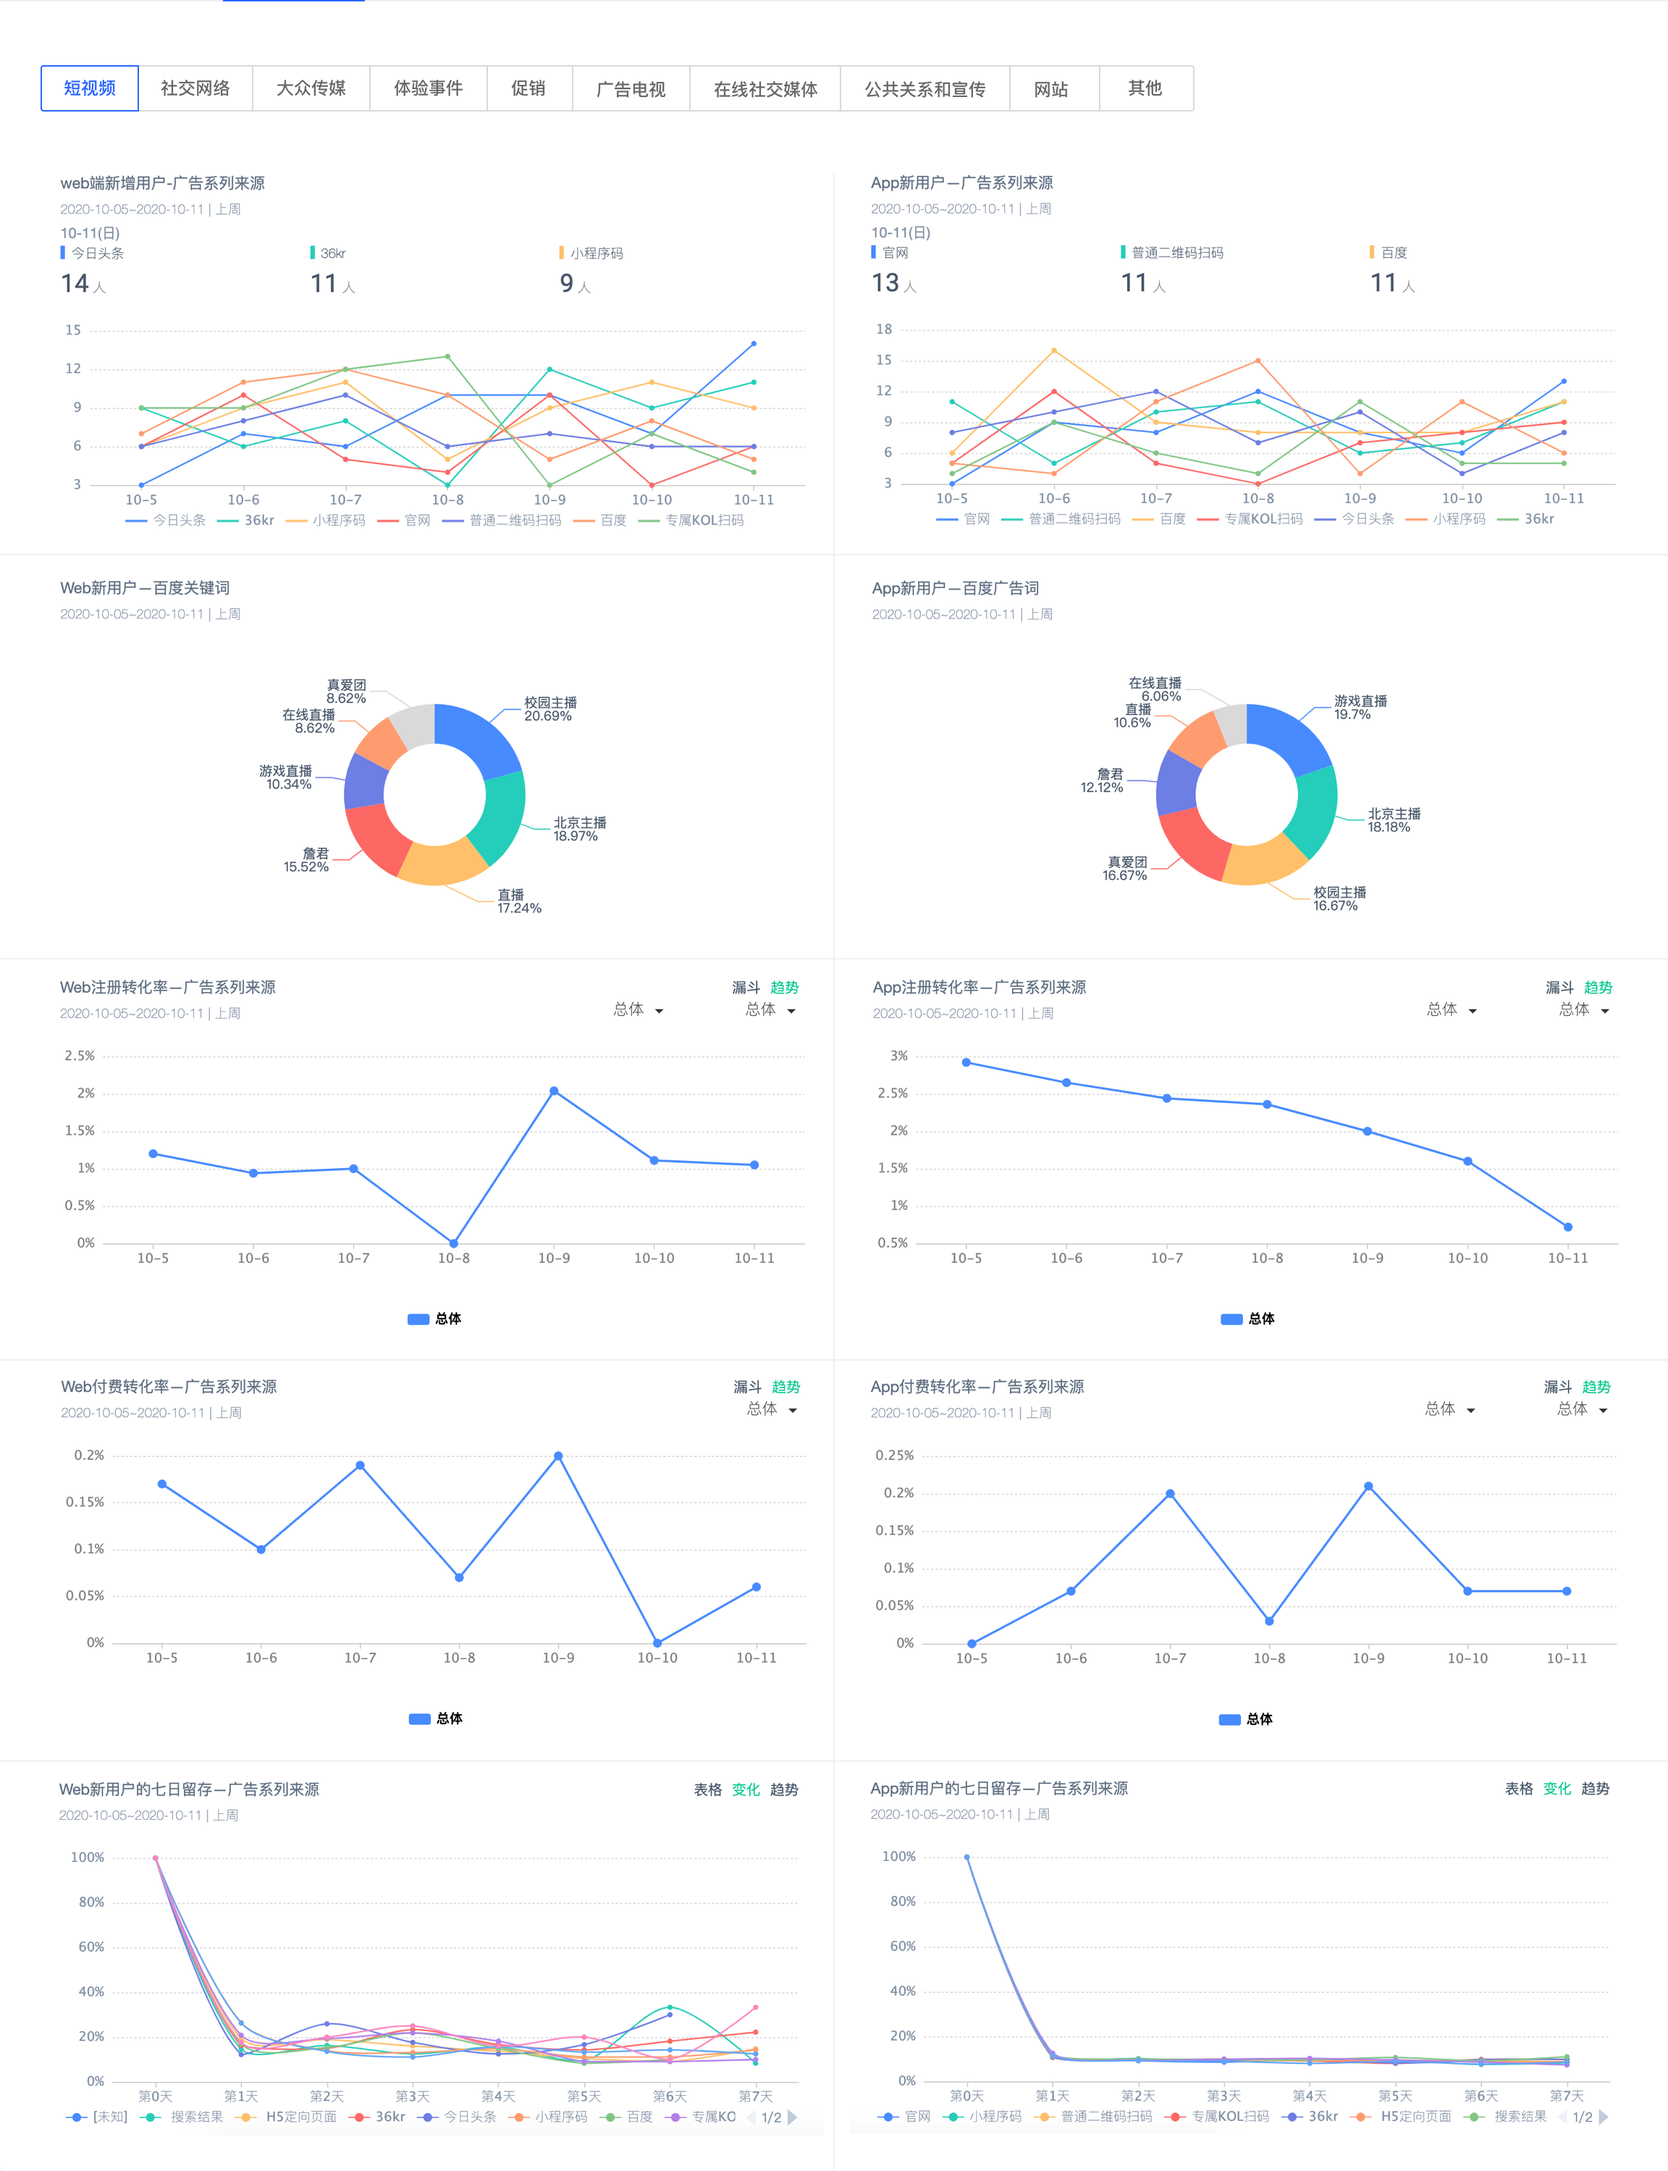
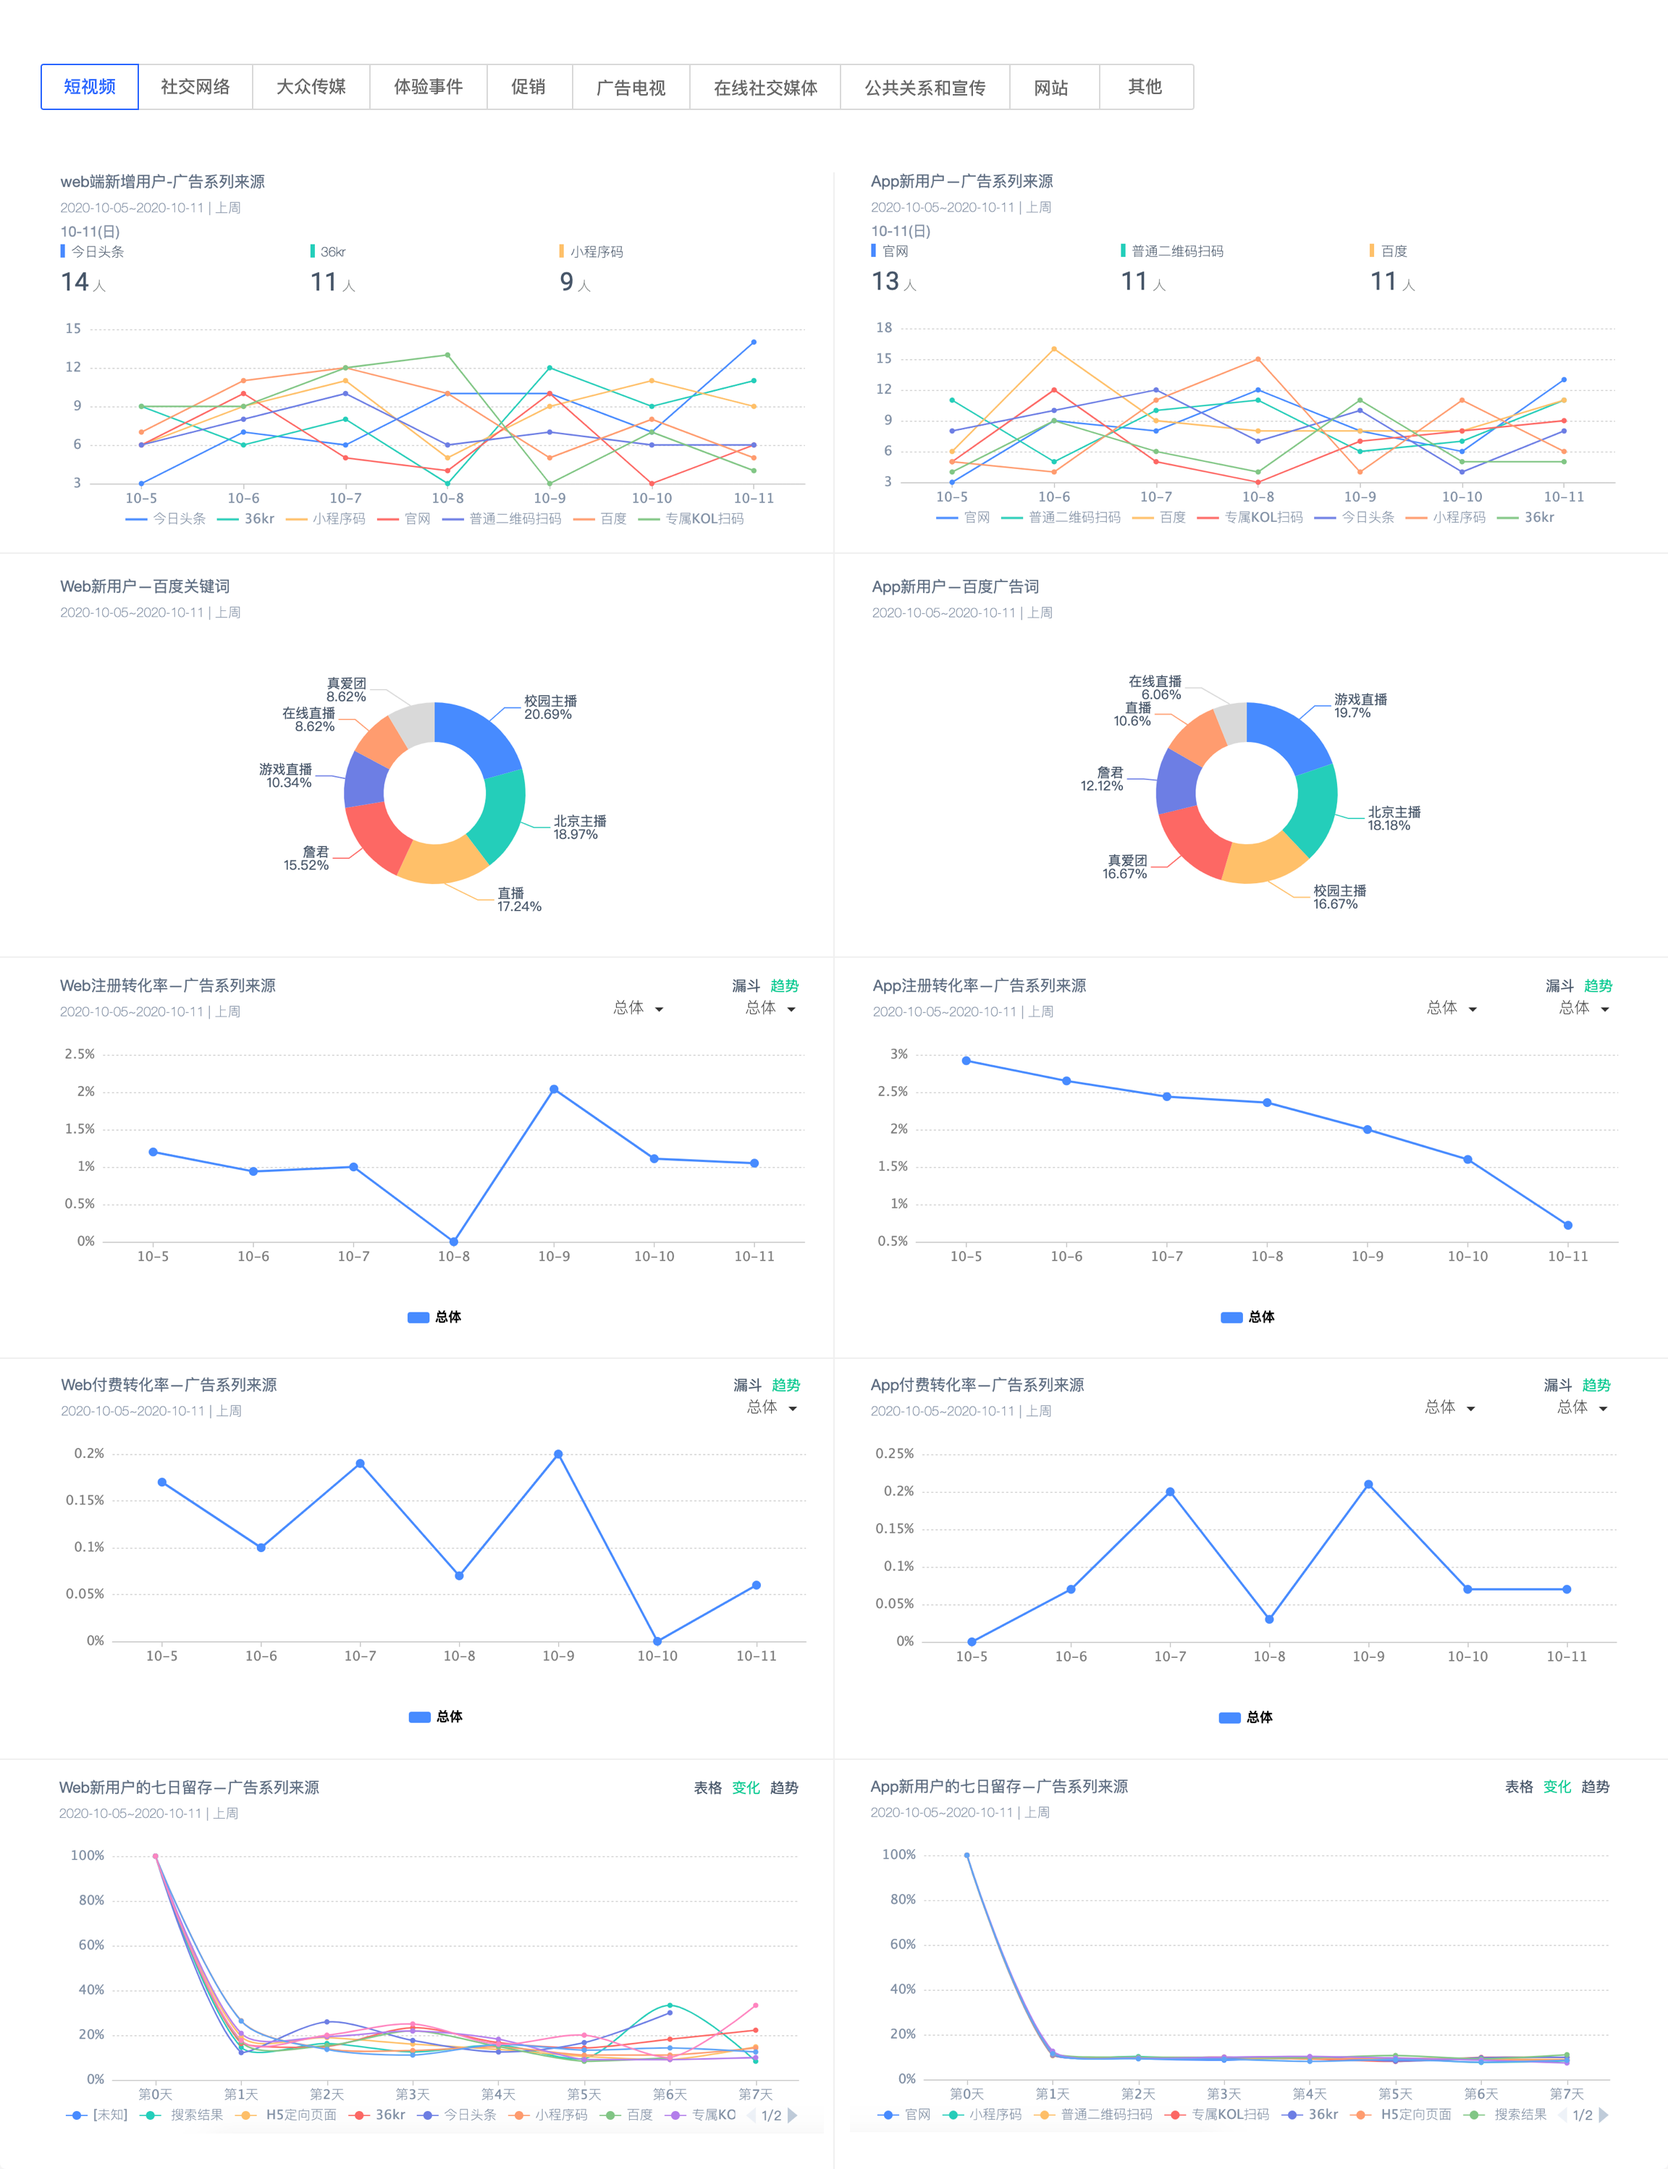
用户画像

diff --git a/src/views/protrait/components/tdjchx.vue b/src/views/protrait/components/tdjchx.vue
@@ -9,10 +9,14 @@
                     </div>
                 </div>
                 <div class="bottom">
-                    <div v-if="tabActive==1">
+                    <div class="tab-content" v-if="tabActive==1">
                         <img src="../../../static/img/protrait/tdjchx2@2x.png" alt="">
+                        <iframe class="iframe iframe1" src="/static/html/lxj/pie1-1.html" frameborder="0" scrolling="no"></iframe>
+                        <iframe class="iframe iframe2" src="/static/html/lxj/pie1-2.html" frameborder="0" scrolling="no"></iframe>
+                        <iframe class="iframe iframe3" src="/static/html/lxj/pie1-3.html" frameborder="0" scrolling="no"></iframe>
+                        <iframe class="iframe iframe4" src="/static/html/lxj/pie1-4.html" frameborder="0" scrolling="no"></iframe>
                     </div>
-                    <div v-else>
+                    <div class="tab-content" v-else>
                         <img src="../../../static/img/protrait/tdjchx3@2x.png" alt="">
                     </div>
                 </div>
@@ -94,9 +98,44 @@
                 }
 
                 .bottom {
-                    >div {
+                    .tab-content {
+                        position: relative;
+
                         >img {
                             width: 100%;
+                        }
+
+                        .iframe {
+                            position: absolute;
+                            width: 330px;
+                            height: 280px;
+                            background: #FFFFFF;
+                        }
+
+                        .iframe1 {
+                            left: 40px;
+                            top: 160px;
+                        }
+
+                        .iframe2 {
+                            width: 300px;
+                            height: 325px;
+                            left: 430px;
+                            top: 150px;
+                        }
+
+                        .iframe3 {
+                            width: 300px;
+                            height: 325px;
+                            right: 60px;
+                            top: 150px;
+                        }
+
+                        .iframe4 {
+                            width: 330px;
+                            height: 325px;
+                            left: 40px;
+                            top: 530px;
                         }
                     }
                 }

diff --git a/src/views/protrait/components/pphx.vue b/src/views/protrait/components/pphx.vue
@@ -14,14 +14,17 @@
                     </div>
                 </div>
                 <div class="bottom">
-                    <div v-if="tabActive==1">
+                    <div class="tab-content" v-if="tabActive==1">
                         <img src="../../../static/img/protrait/pphx2@2x.png" alt="">
                     </div>
-                    <div v-else-if="tabActive==2">
+                    <div class="tab-content" v-else-if="tabActive==2">
                         <img src="../../../static/img/protrait/pphx3@2x.png" alt="">
+                        <iframe class="iframe iframe1" src="/static/html/fj/zhu.html" frameborder="0" scrolling="no"></iframe>
+                        <iframe class="iframe iframe2" src="/static/html/zjj/ppqdkb.html" frameborder="0" scrolling="no"></iframe>
                     </div>
-                    <div v-else>
+                    <div class="tab-content" v-else>
                         <img src="../../../static/img/protrait/pphx4@2x.png" alt="">
+                        <iframe class="iframe iframe3" src="/static/html/lxj/bar1.html" frameborder="0" scrolling="no"></iframe>
                     </div>
                 </div>
             </div>
@@ -147,9 +150,32 @@
                 }
 
                 .bottom {
-                    >div {
+                    .tab-content {
+                        position: relative;
                         >img {
                             width: 100%;
+                        }
+
+                        .iframe {
+                            position: absolute;
+                            width: 48%;
+                            height: 280px;
+                            background: #FFFFFF;
+                        }
+
+                        .iframe1 {
+                            left: 20px;
+                            top: 70px;
+                        }
+
+                        .iframe2 {
+                            right: 10px;
+                            top: 50px;
+                        }
+
+                        .iframe3 {
+                            left: 10px;
+                            top: 45px;
                         }
                     }
                 }

diff --git a/public/static/html/lxj/pie1-4.html b/public/static/html/lxj/pie1-4.html
@@ -95,7 +95,7 @@
 						type: 'scroll',
 						icon: 'circle',
 						orient: 'vertical',
-						right: 20,
+						right: 10,
 						top: 'center',
 						bottom: 20,
 						data: data.map(it => it.label),
@@ -105,7 +105,7 @@
 					},
 					series: [{
 						type: 'pie',
-						center: ['50%', '50%'],
+						center: ['35%', '50%'],
 						radius: ['35%', '50%'],
 						clockwise: true,
 						avoidLabelOverlap: true,

diff --git a/public/static/html/lxj/pie1-3.html b/public/static/html/lxj/pie1-3.html
@@ -69,9 +69,10 @@
 					backgroundColor:'rgba(255, 255, 255, 0)',
 					color: colorList,
 					legend: {
-						orient: 'vertical',
-						top: 'center',
-						right: '2%',
+						// orient: 'vertical',
+						// top: 'center',
+						bottom: 20,
+						// bottom: '2%',
 						data: data.map(it => it.label),
 					},
 					tooltip: {

diff --git a/src/views/protrait/components/yhhx.vue b/src/views/protrait/components/yhhx.vue
@@ -162,7 +162,8 @@
                         }
 
                         .iframe2 {
-                            right: 0;
+                            width: 40%;
+                            right: 60px;
                             top: 50px;
                         }
 
